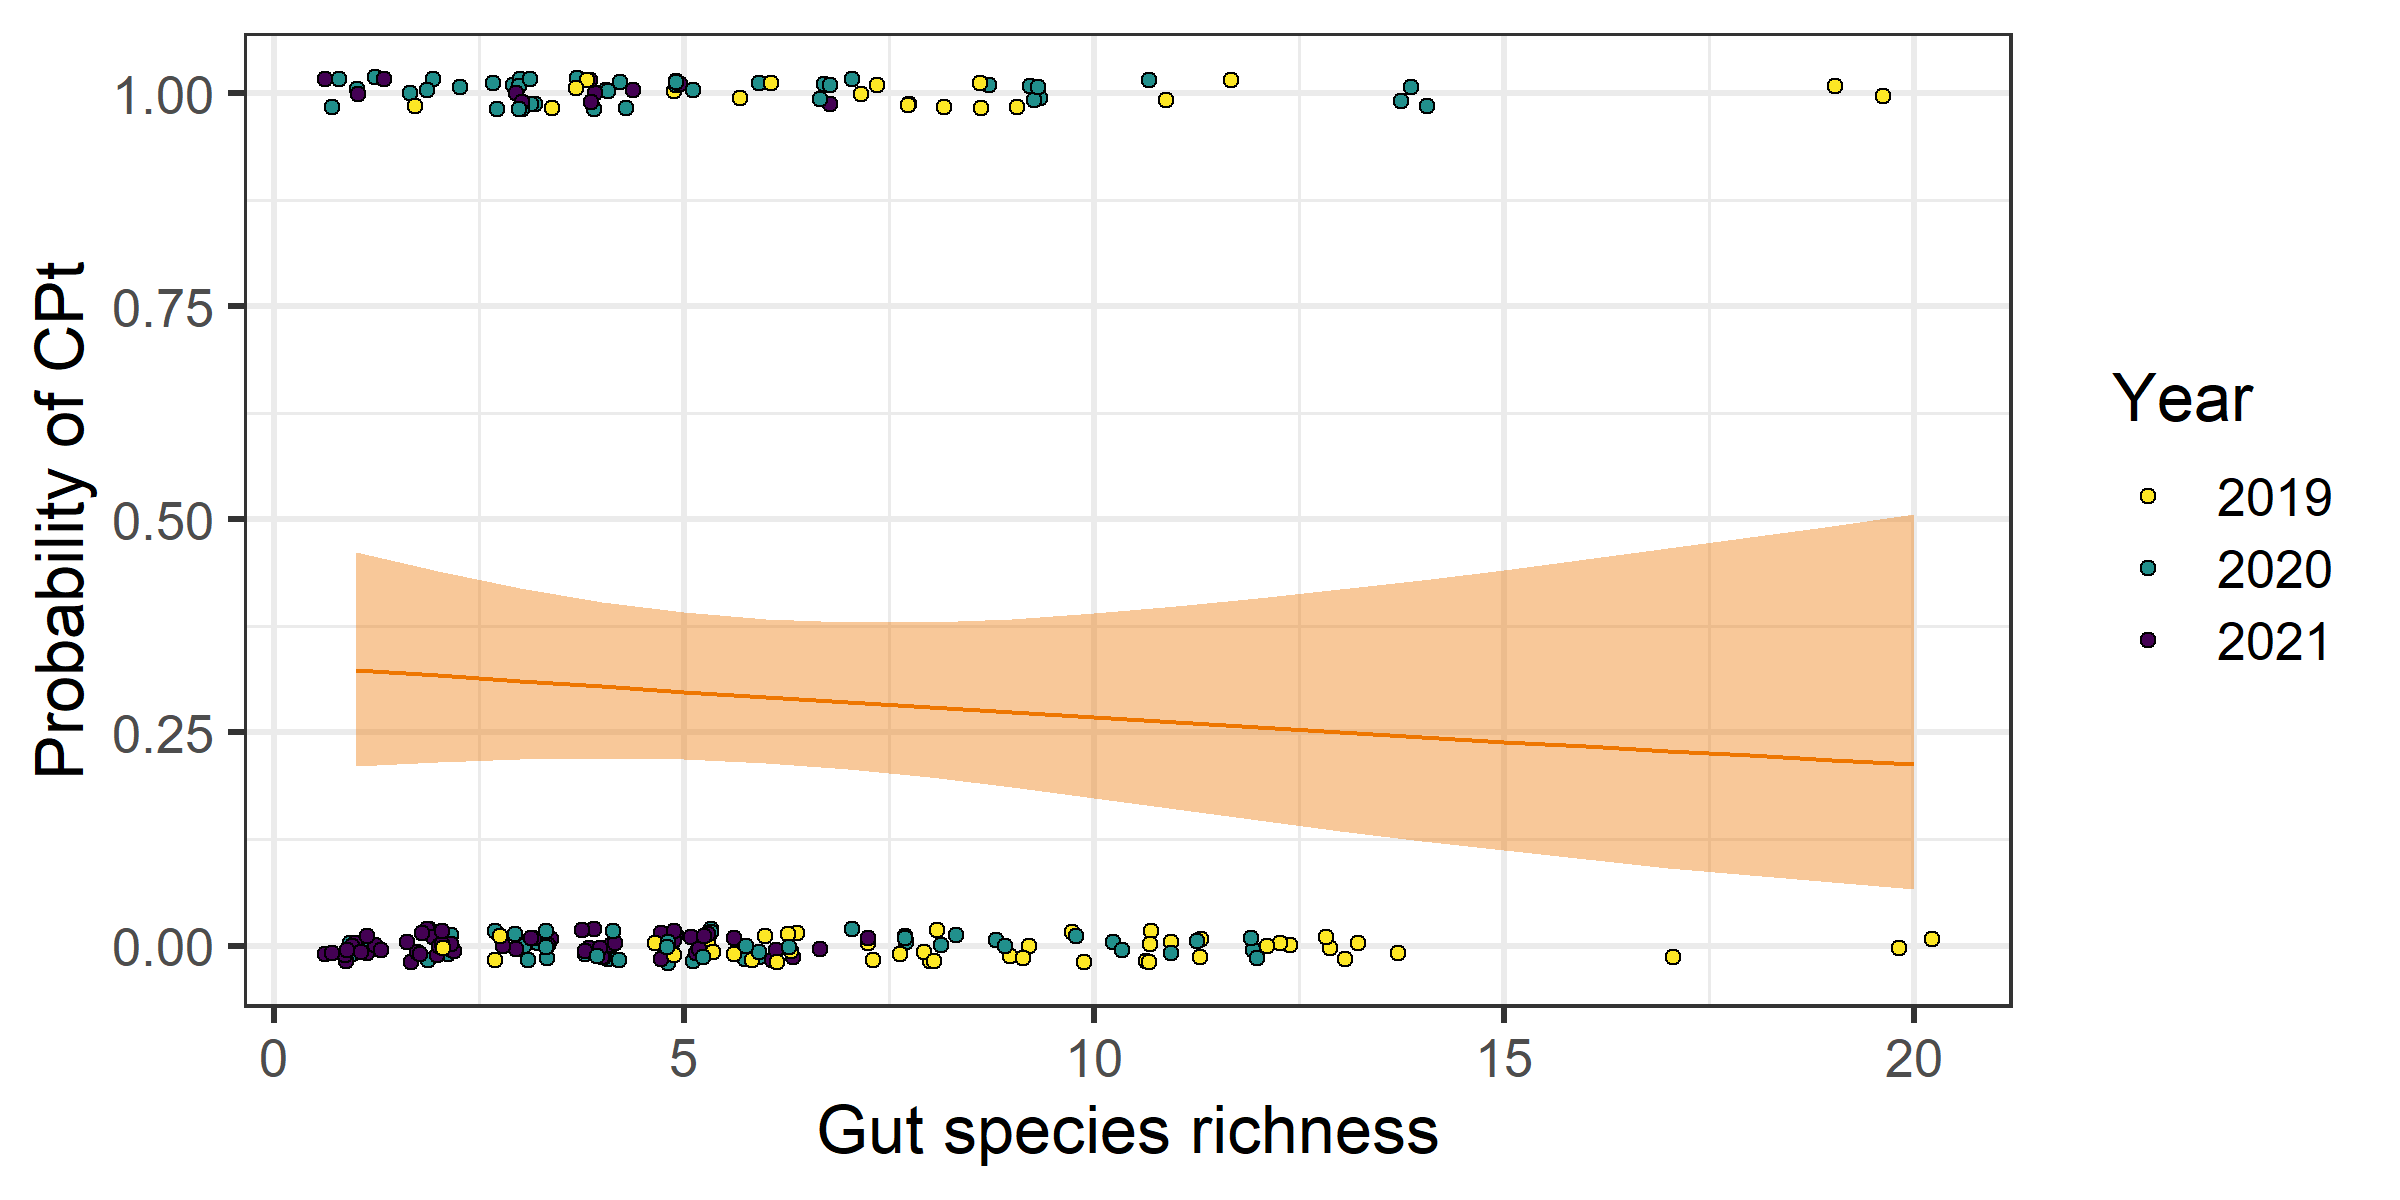
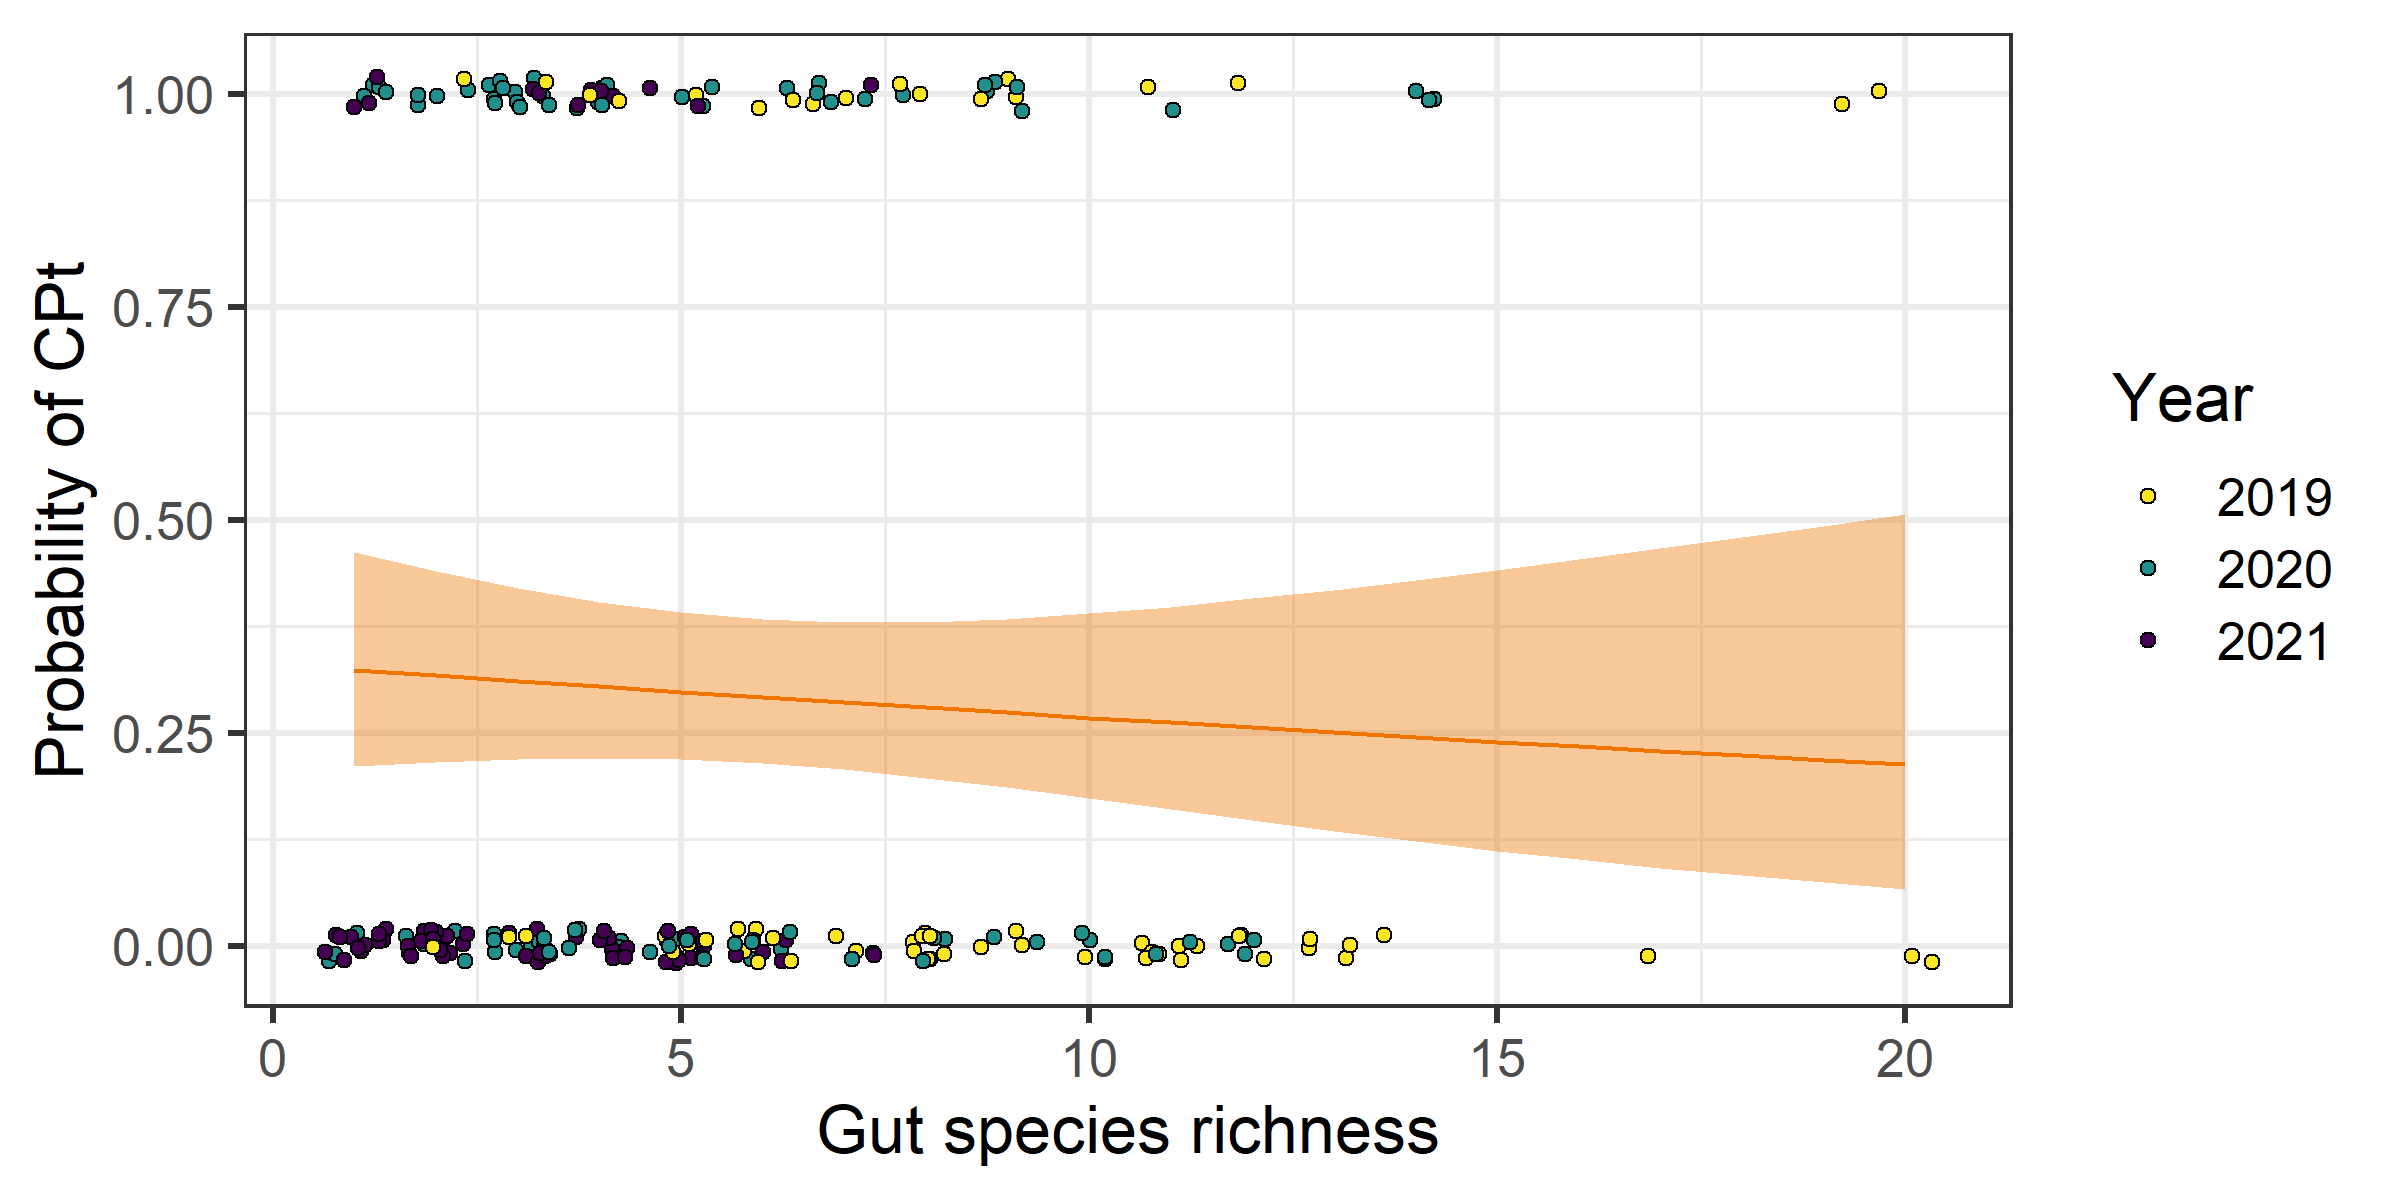
added a composite figure for Camille's NMDS figure.

diff --git a/analyses/potato_guts.md b/analyses/potato_guts.md
@@ -1,7 +1,7 @@
 BLH Gut Diversity in Potato
 ================
 Riley M. Anderson
-May 21, 2025
+May 27, 2025
 
   
 
@@ -15,6 +15,7 @@ May 21, 2025
   - [Non-crops by time](#non-crops-by-time)
   - [Trees by time](#trees-by-time)
     - [Gut contents by sample date](#gut-contents-by-sample-date)
+    - [One figure for both NMDS](#one-figure-for-both-nmds)
     - [Genus by year](#genus-by-year)
   - [Session Information](#session-information)
 
@@ -427,9 +428,9 @@ AIC(bctv_mod1, bctv_mod2, bctv_mod3)
 
 ### Gut contents by sample date
 
-![](potato_guts_files/figure-gfm/gut_community_BCTV_fig-1.png)<!-- -->
+### One figure for both NMDS
 
-![](potato_guts_files/figure-gfm/gut_community_CPt_fig-1.png)<!-- -->
+![](potato_guts_files/figure-gfm/NMDS_A_and_B-1.png)<!-- -->
 
 ### Genus by year
 
